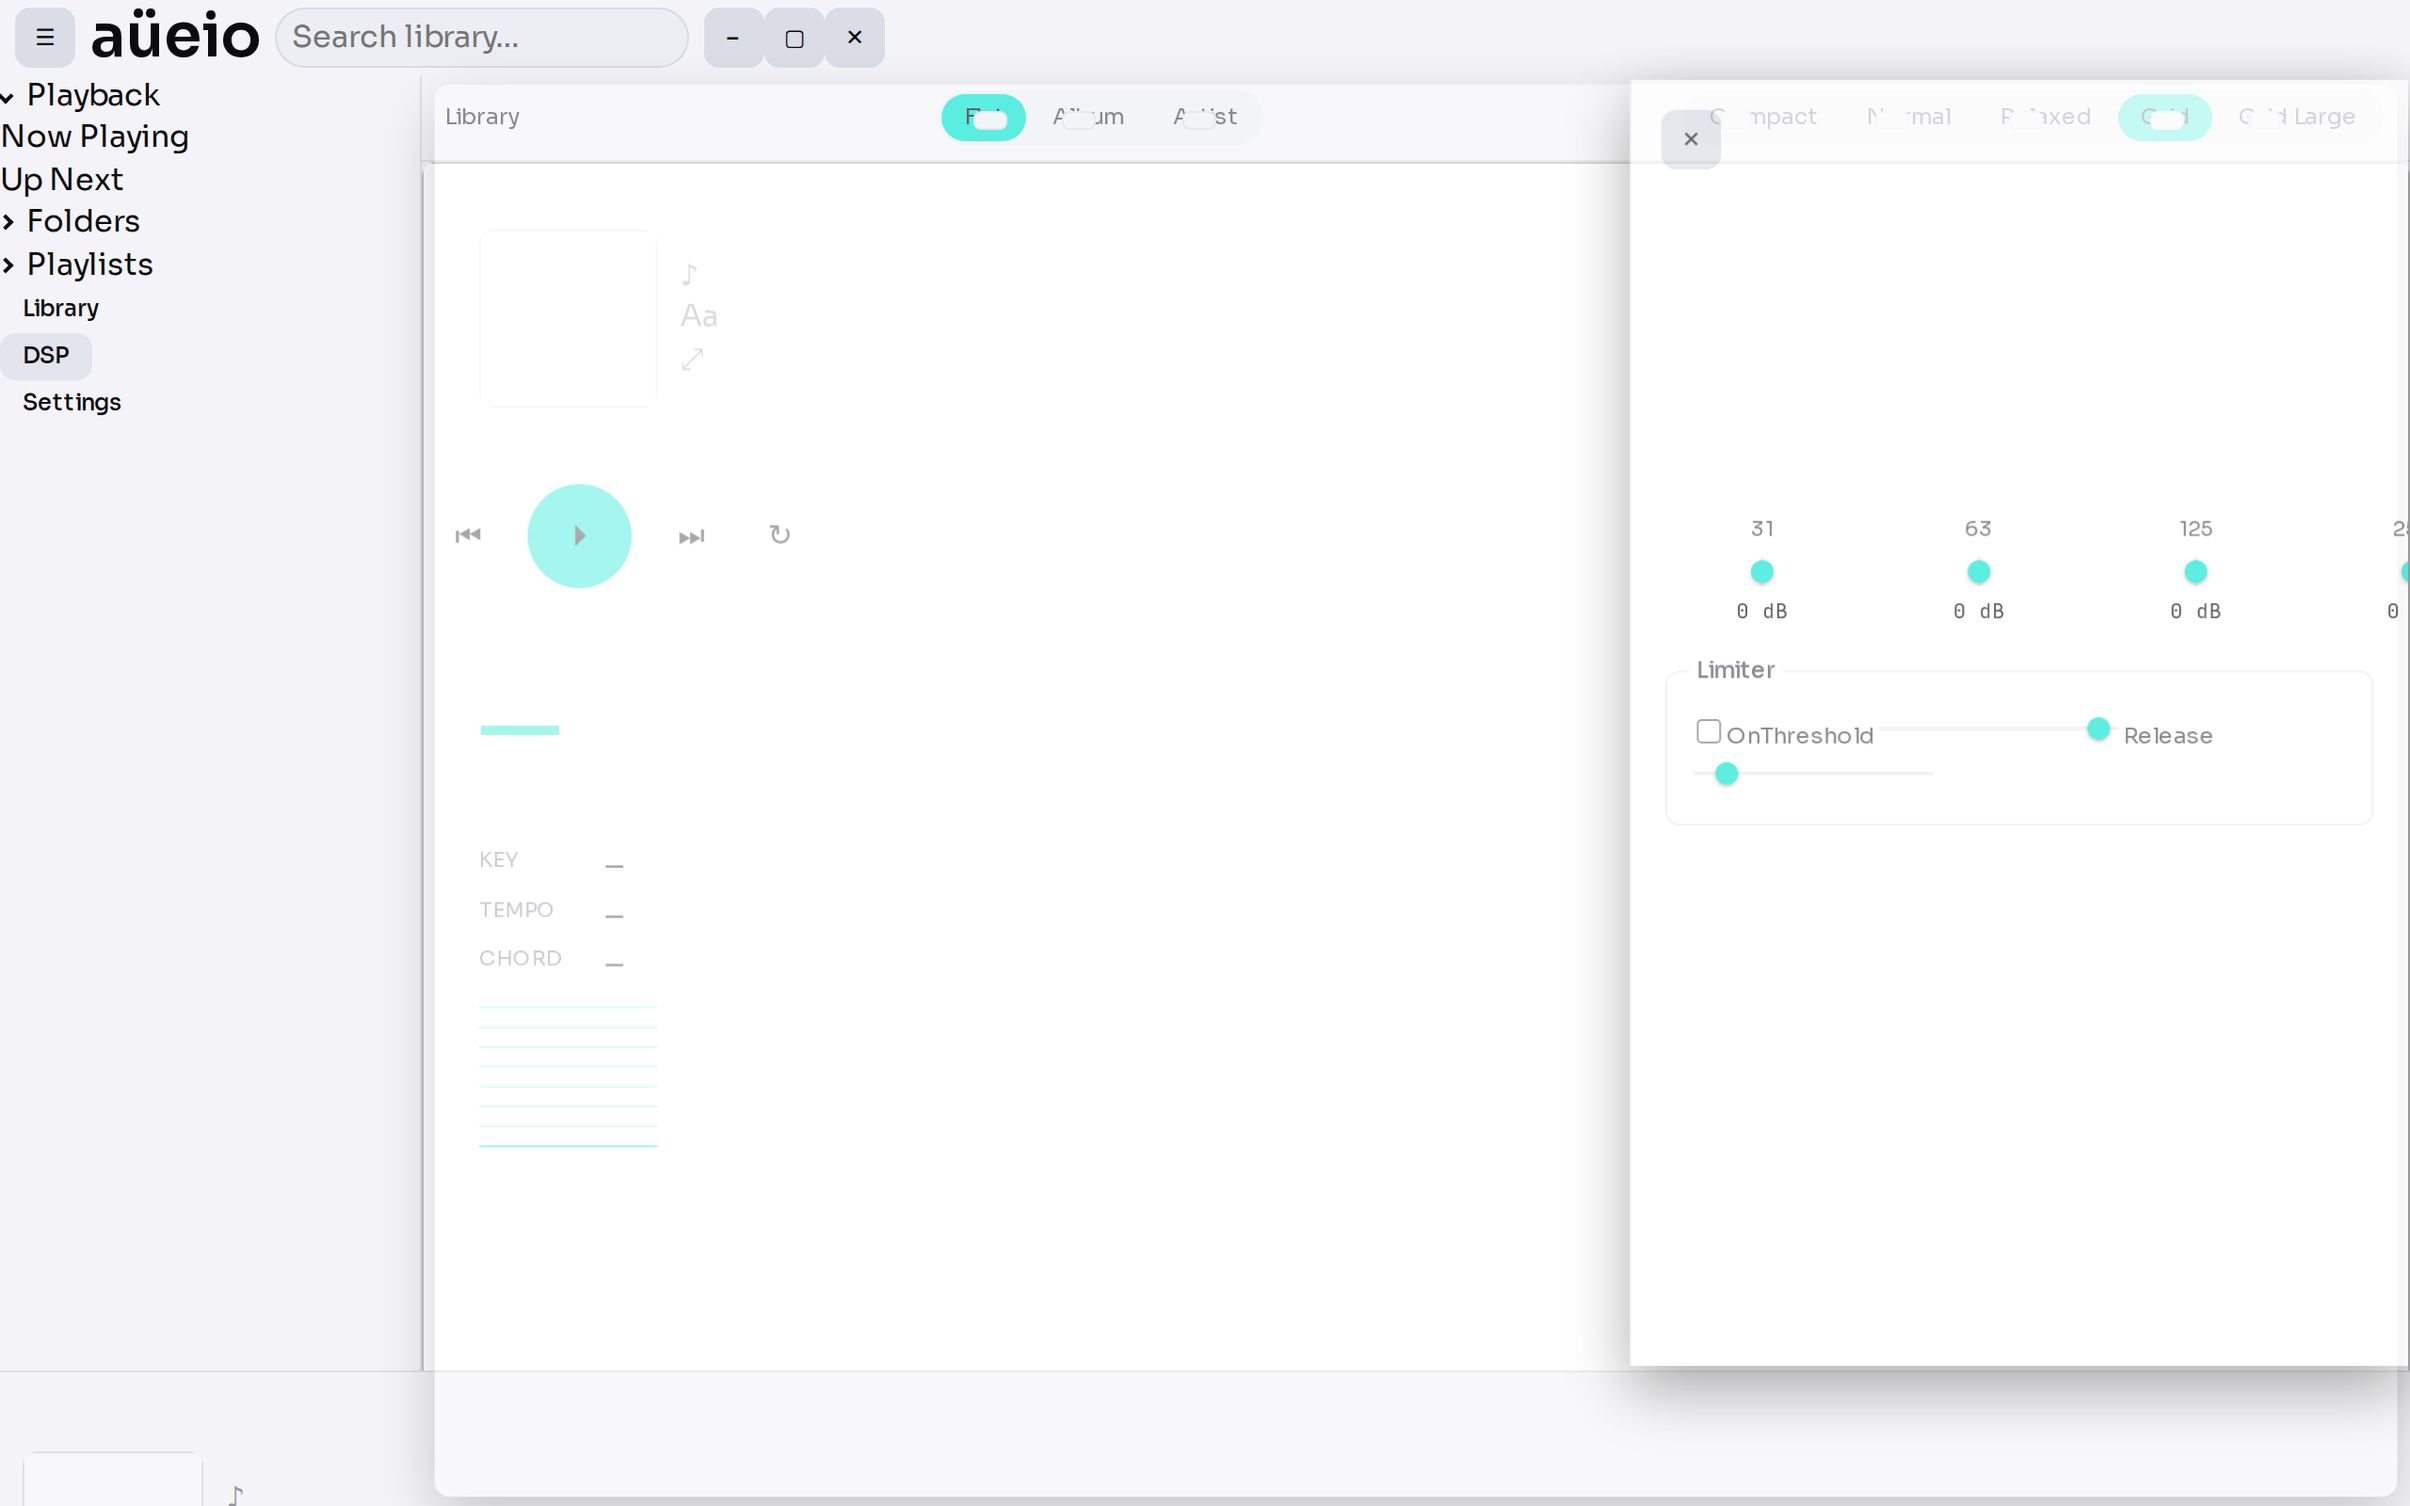
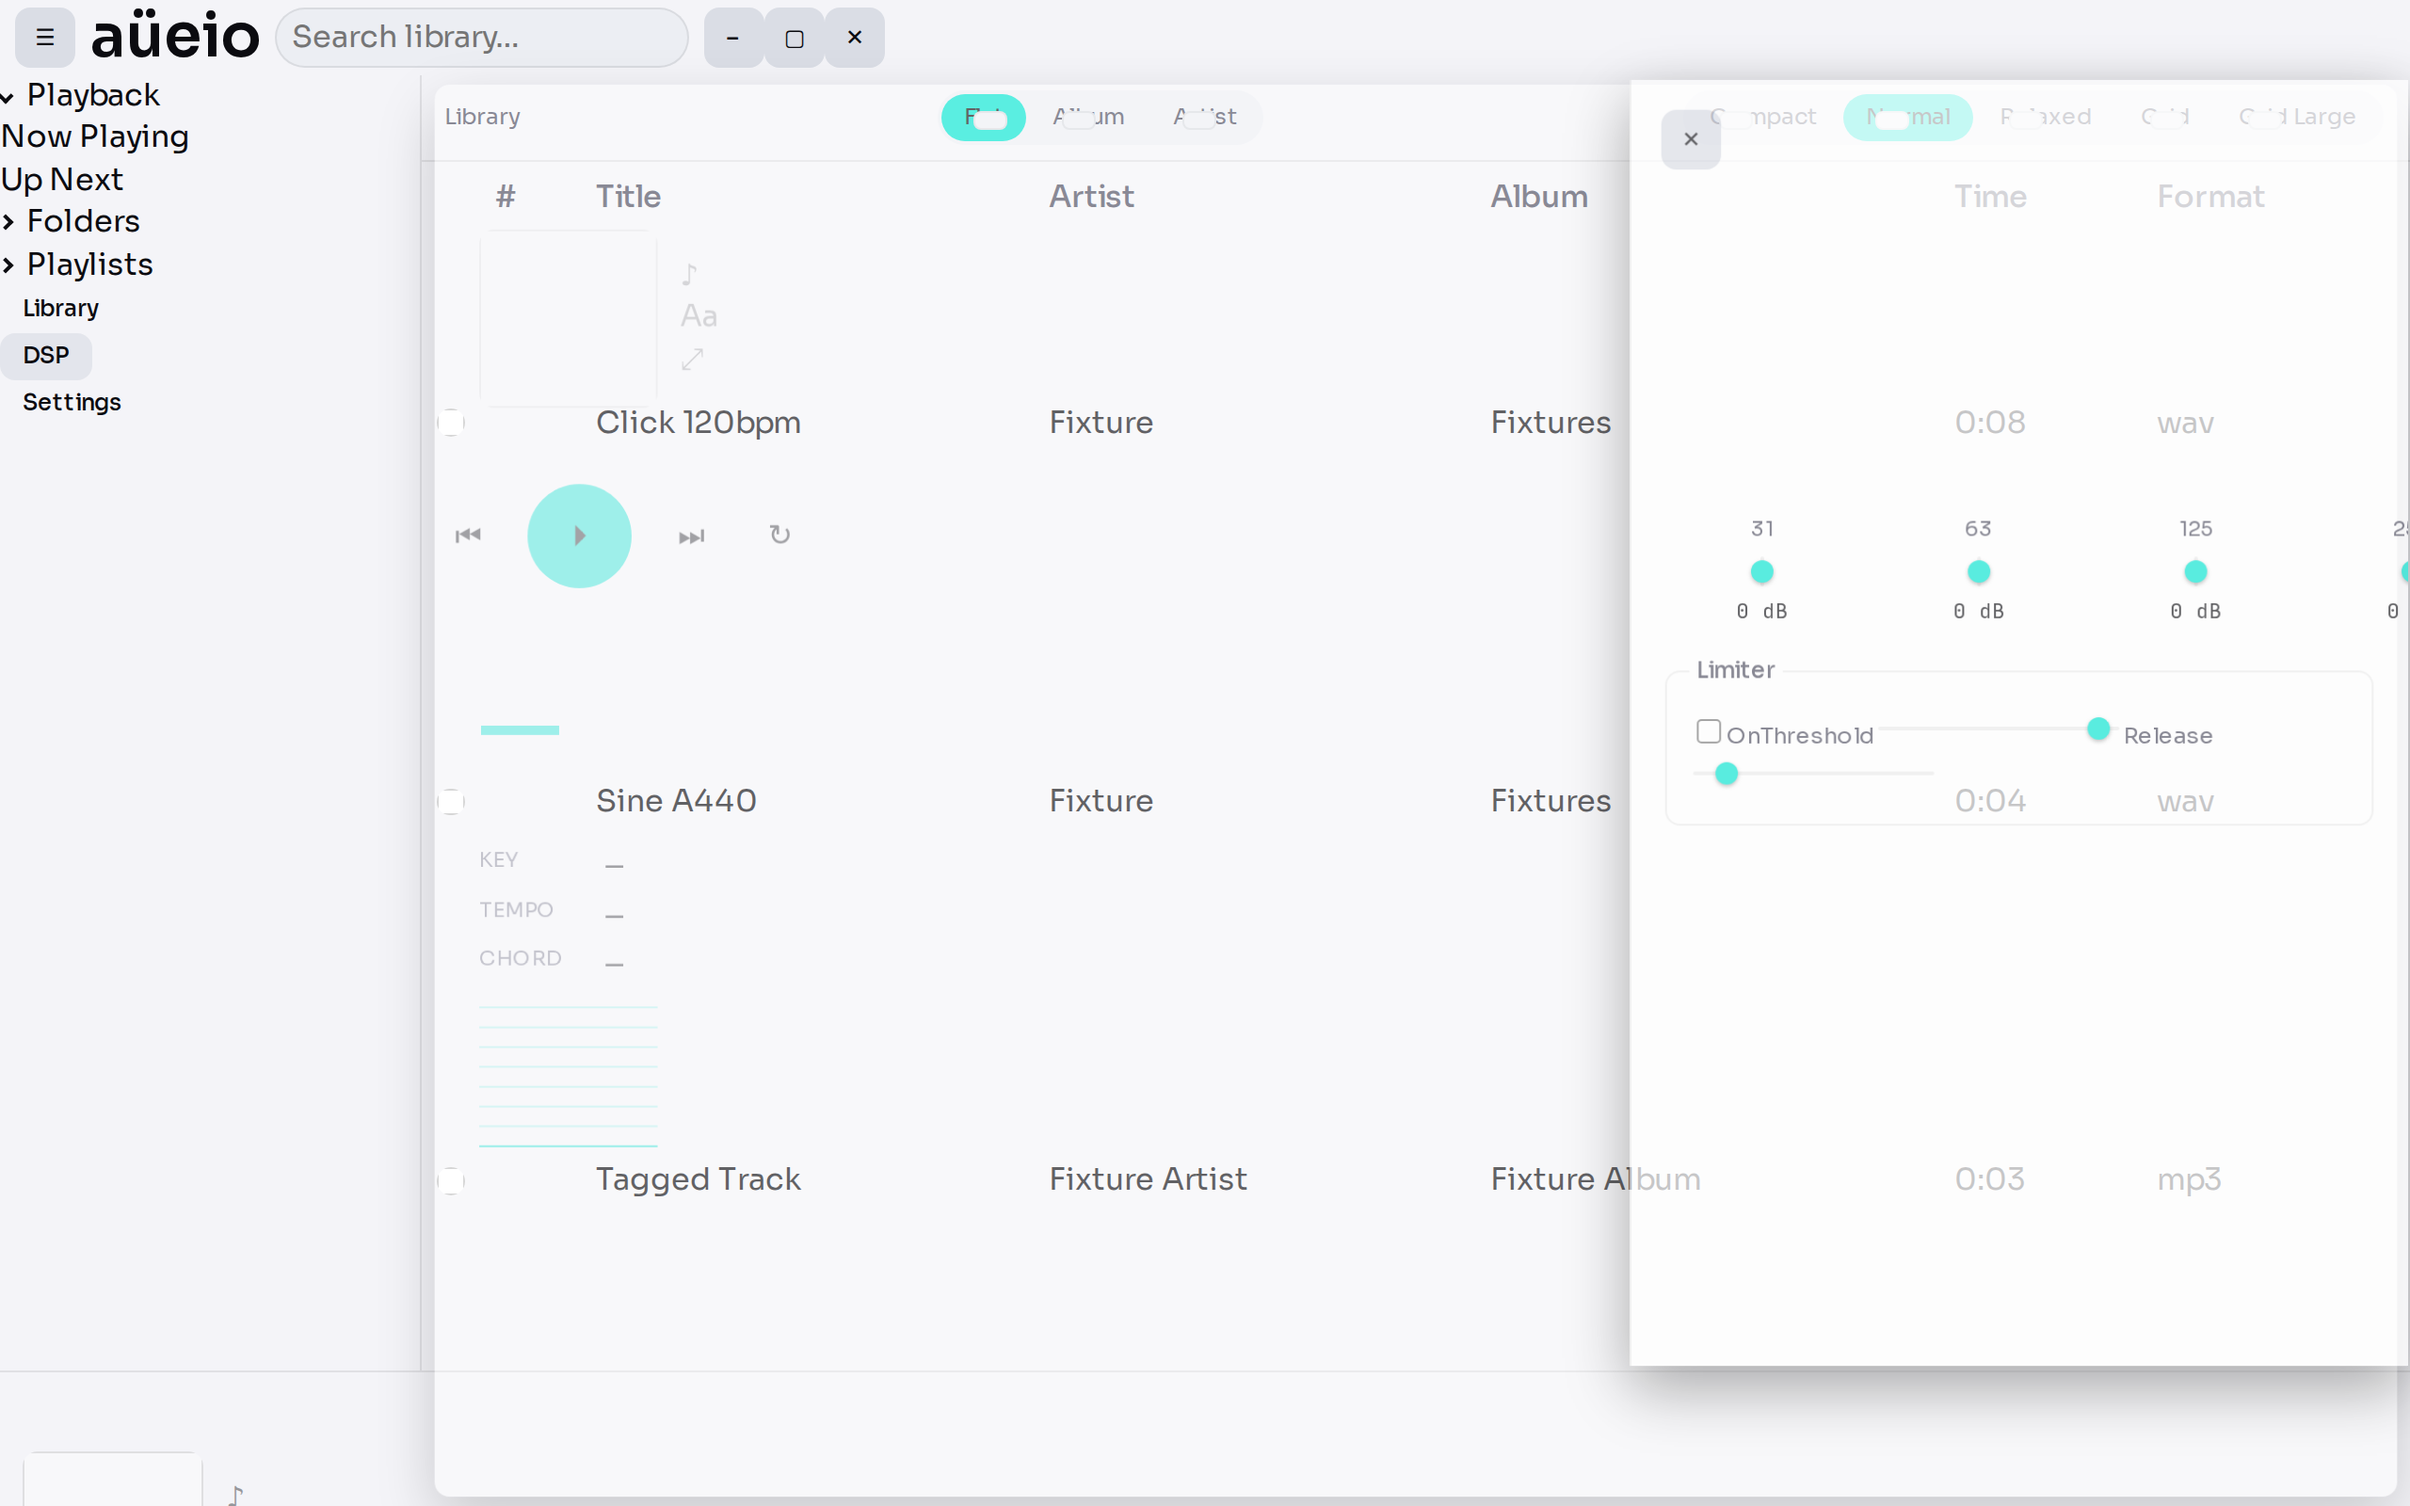
docs: capture the tag editor and reset state between screenshot passes

diff --git a/scripts/screenshots.ts b/scripts/screenshots.ts
@@ -109,6 +109,8 @@ async function captureMainScreens (page: Page, suffix: string): Promise<void> {
   if (suffix === '')
     await attempt(page, 'tag-editor.png', async () => {
       // Earlier shots leave the expanded player open and the shell inert; start clean.
+      await page.evaluate(() =>
+        localStorage.clear())
       await page.reload()
       await page.waitForSelector('tbody tr[data-track-id]', { timeout: TIMEOUT })
 
@@ -120,7 +122,7 @@ async function captureMainScreens (page: Page, suffix: string): Promise<void> {
       const dialog = page.locator('dialog.tag-editor, dialog[open]').first()
       if (!await dialog.isVisible({ timeout: TIMEOUT }).catch(() => false))
         await page.keyboard.press('Meta+i')
-      await page.waitForSelector('dialog.tag-editor, dialog[open]', { state: 'visible', timeout: TIMEOUT })
+      await page.waitForSelector('dialog.tag-editor[open]', { state: 'visible', timeout: TIMEOUT })
     })
 }
 
@@ -139,6 +141,11 @@ async function main (): Promise<void> {
     console.log('dark theme:')
     await captureMainScreens(page, '')
 
+    // The dark pass leaves dialogs and popovers open; start the light pass clean.
+    await page.evaluate(() =>
+      localStorage.clear())
+    await page.reload()
+    await page.waitForSelector('main[data-view]', { timeout: TIMEOUT }).catch(() => {})
     await page.evaluate(() => {
       document.documentElement.dataset.theme = 'light'
     })
